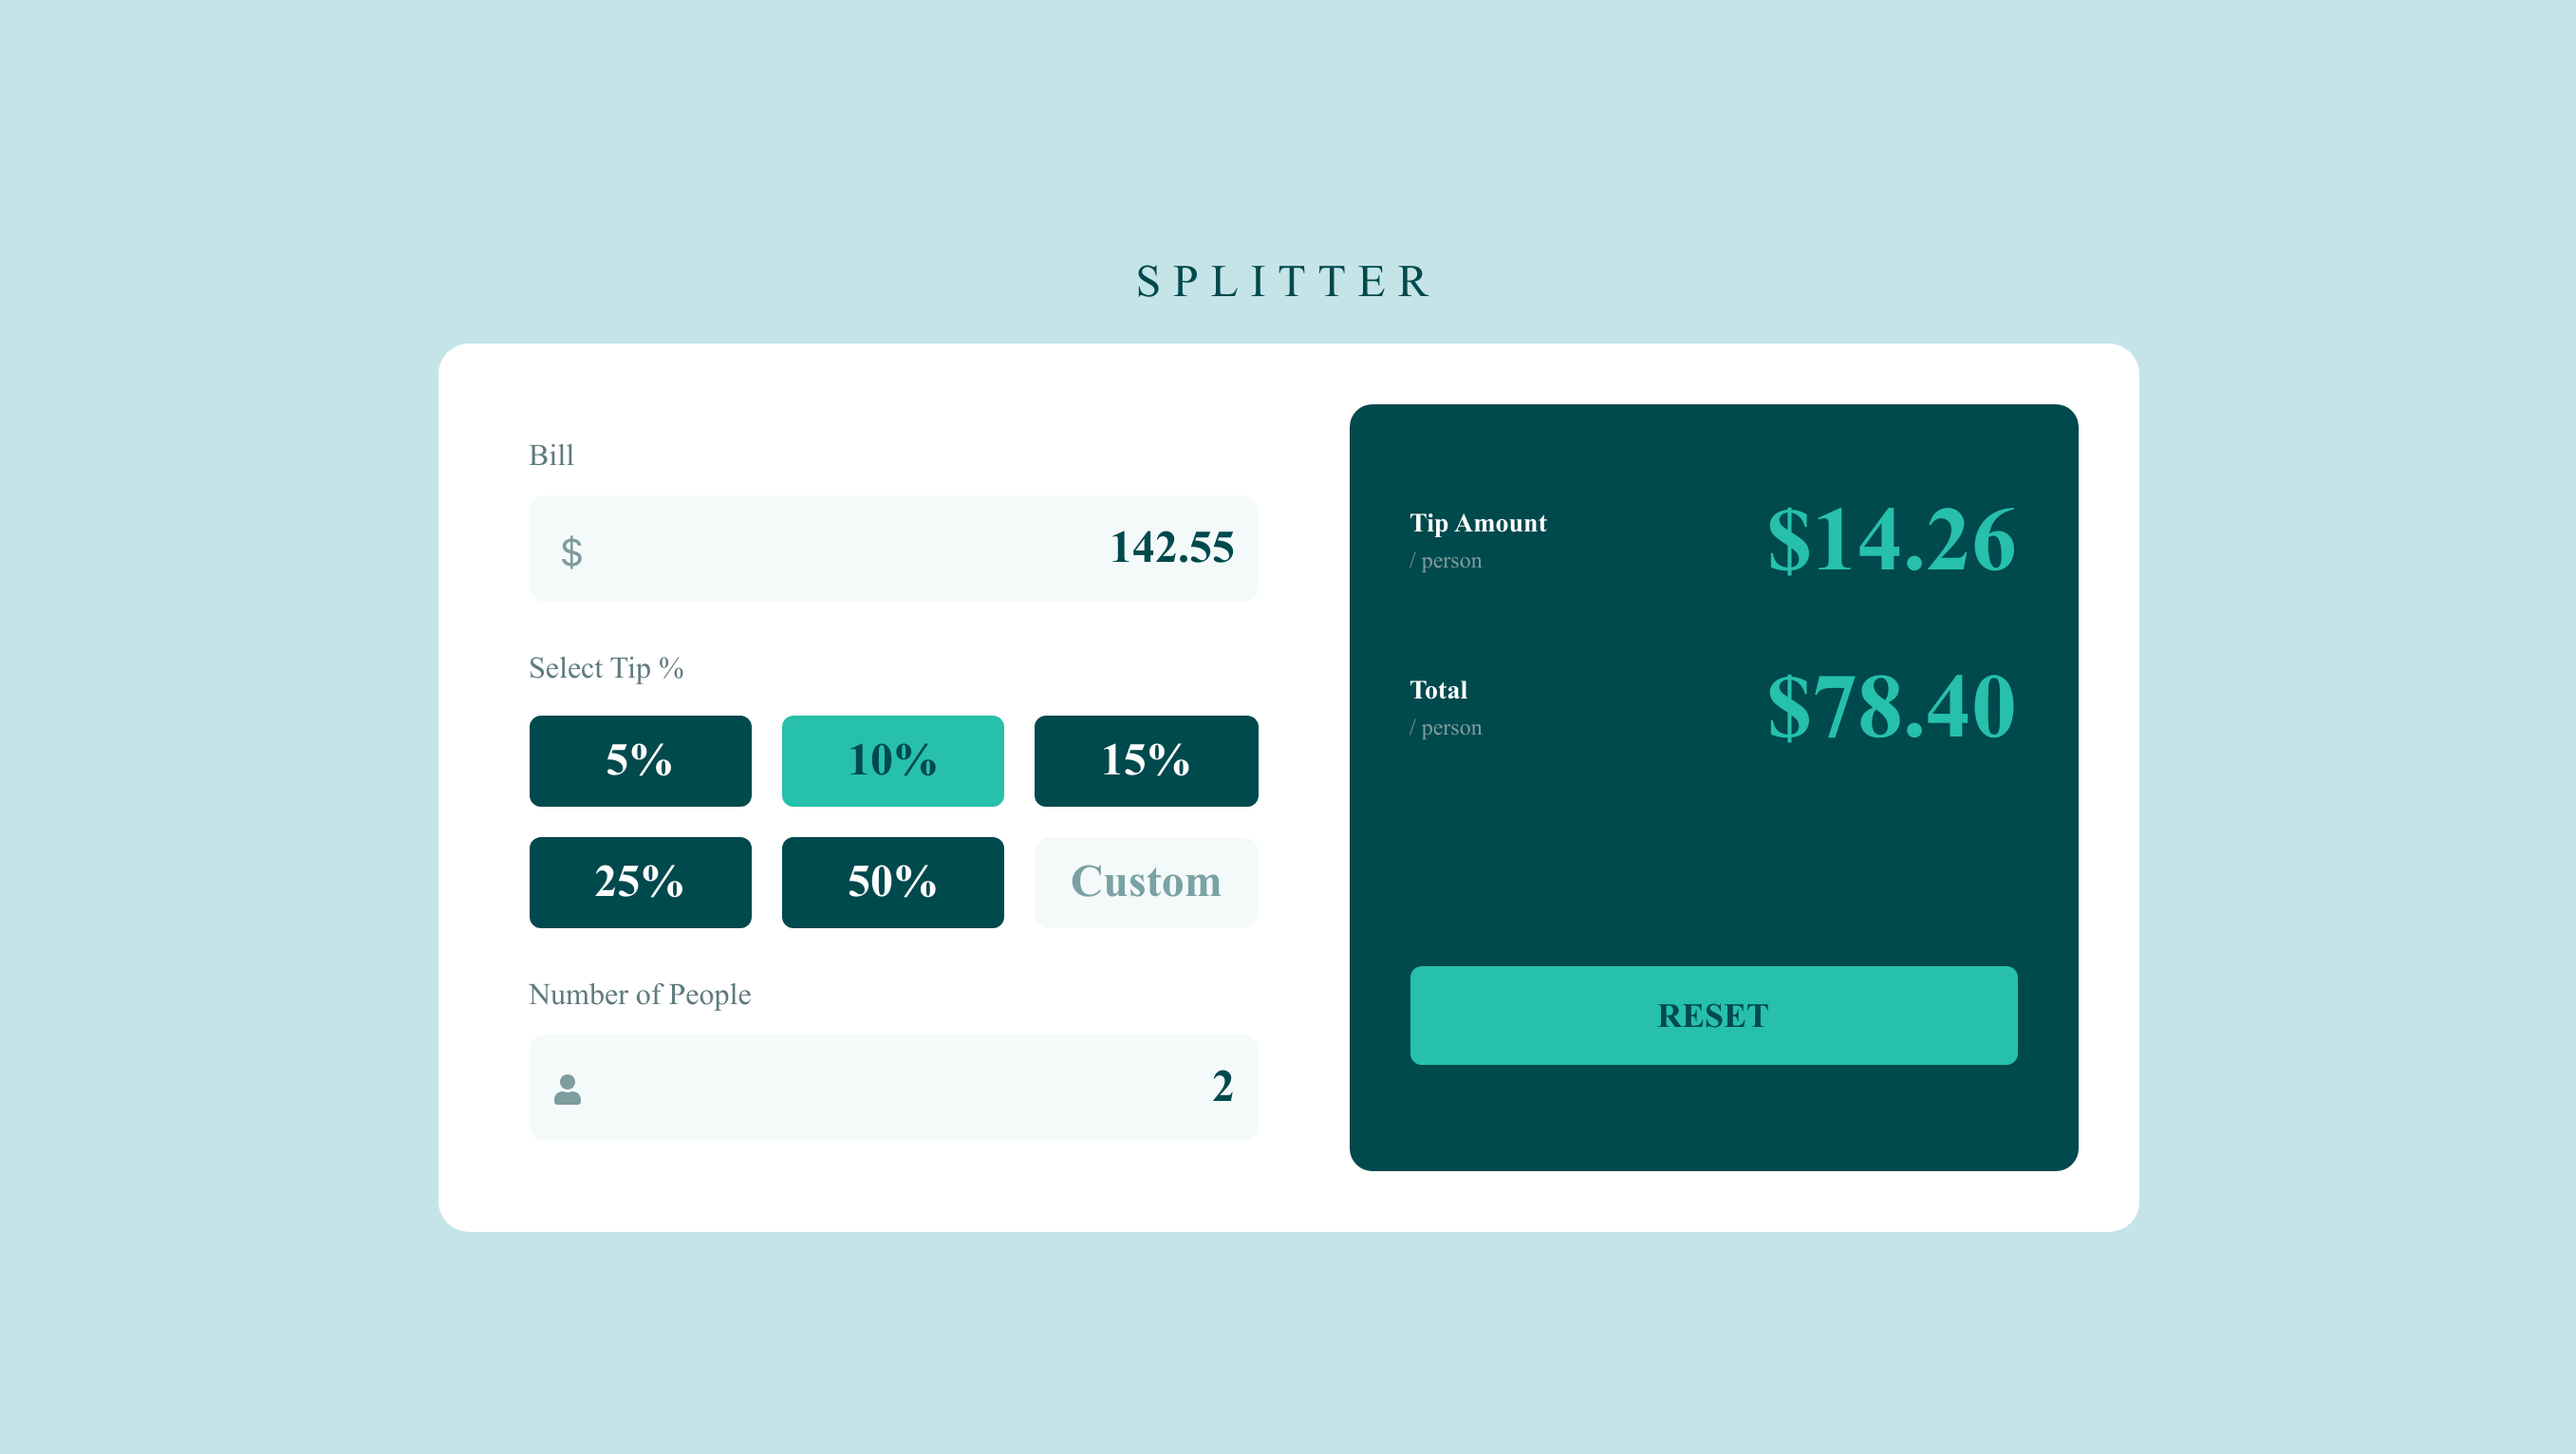
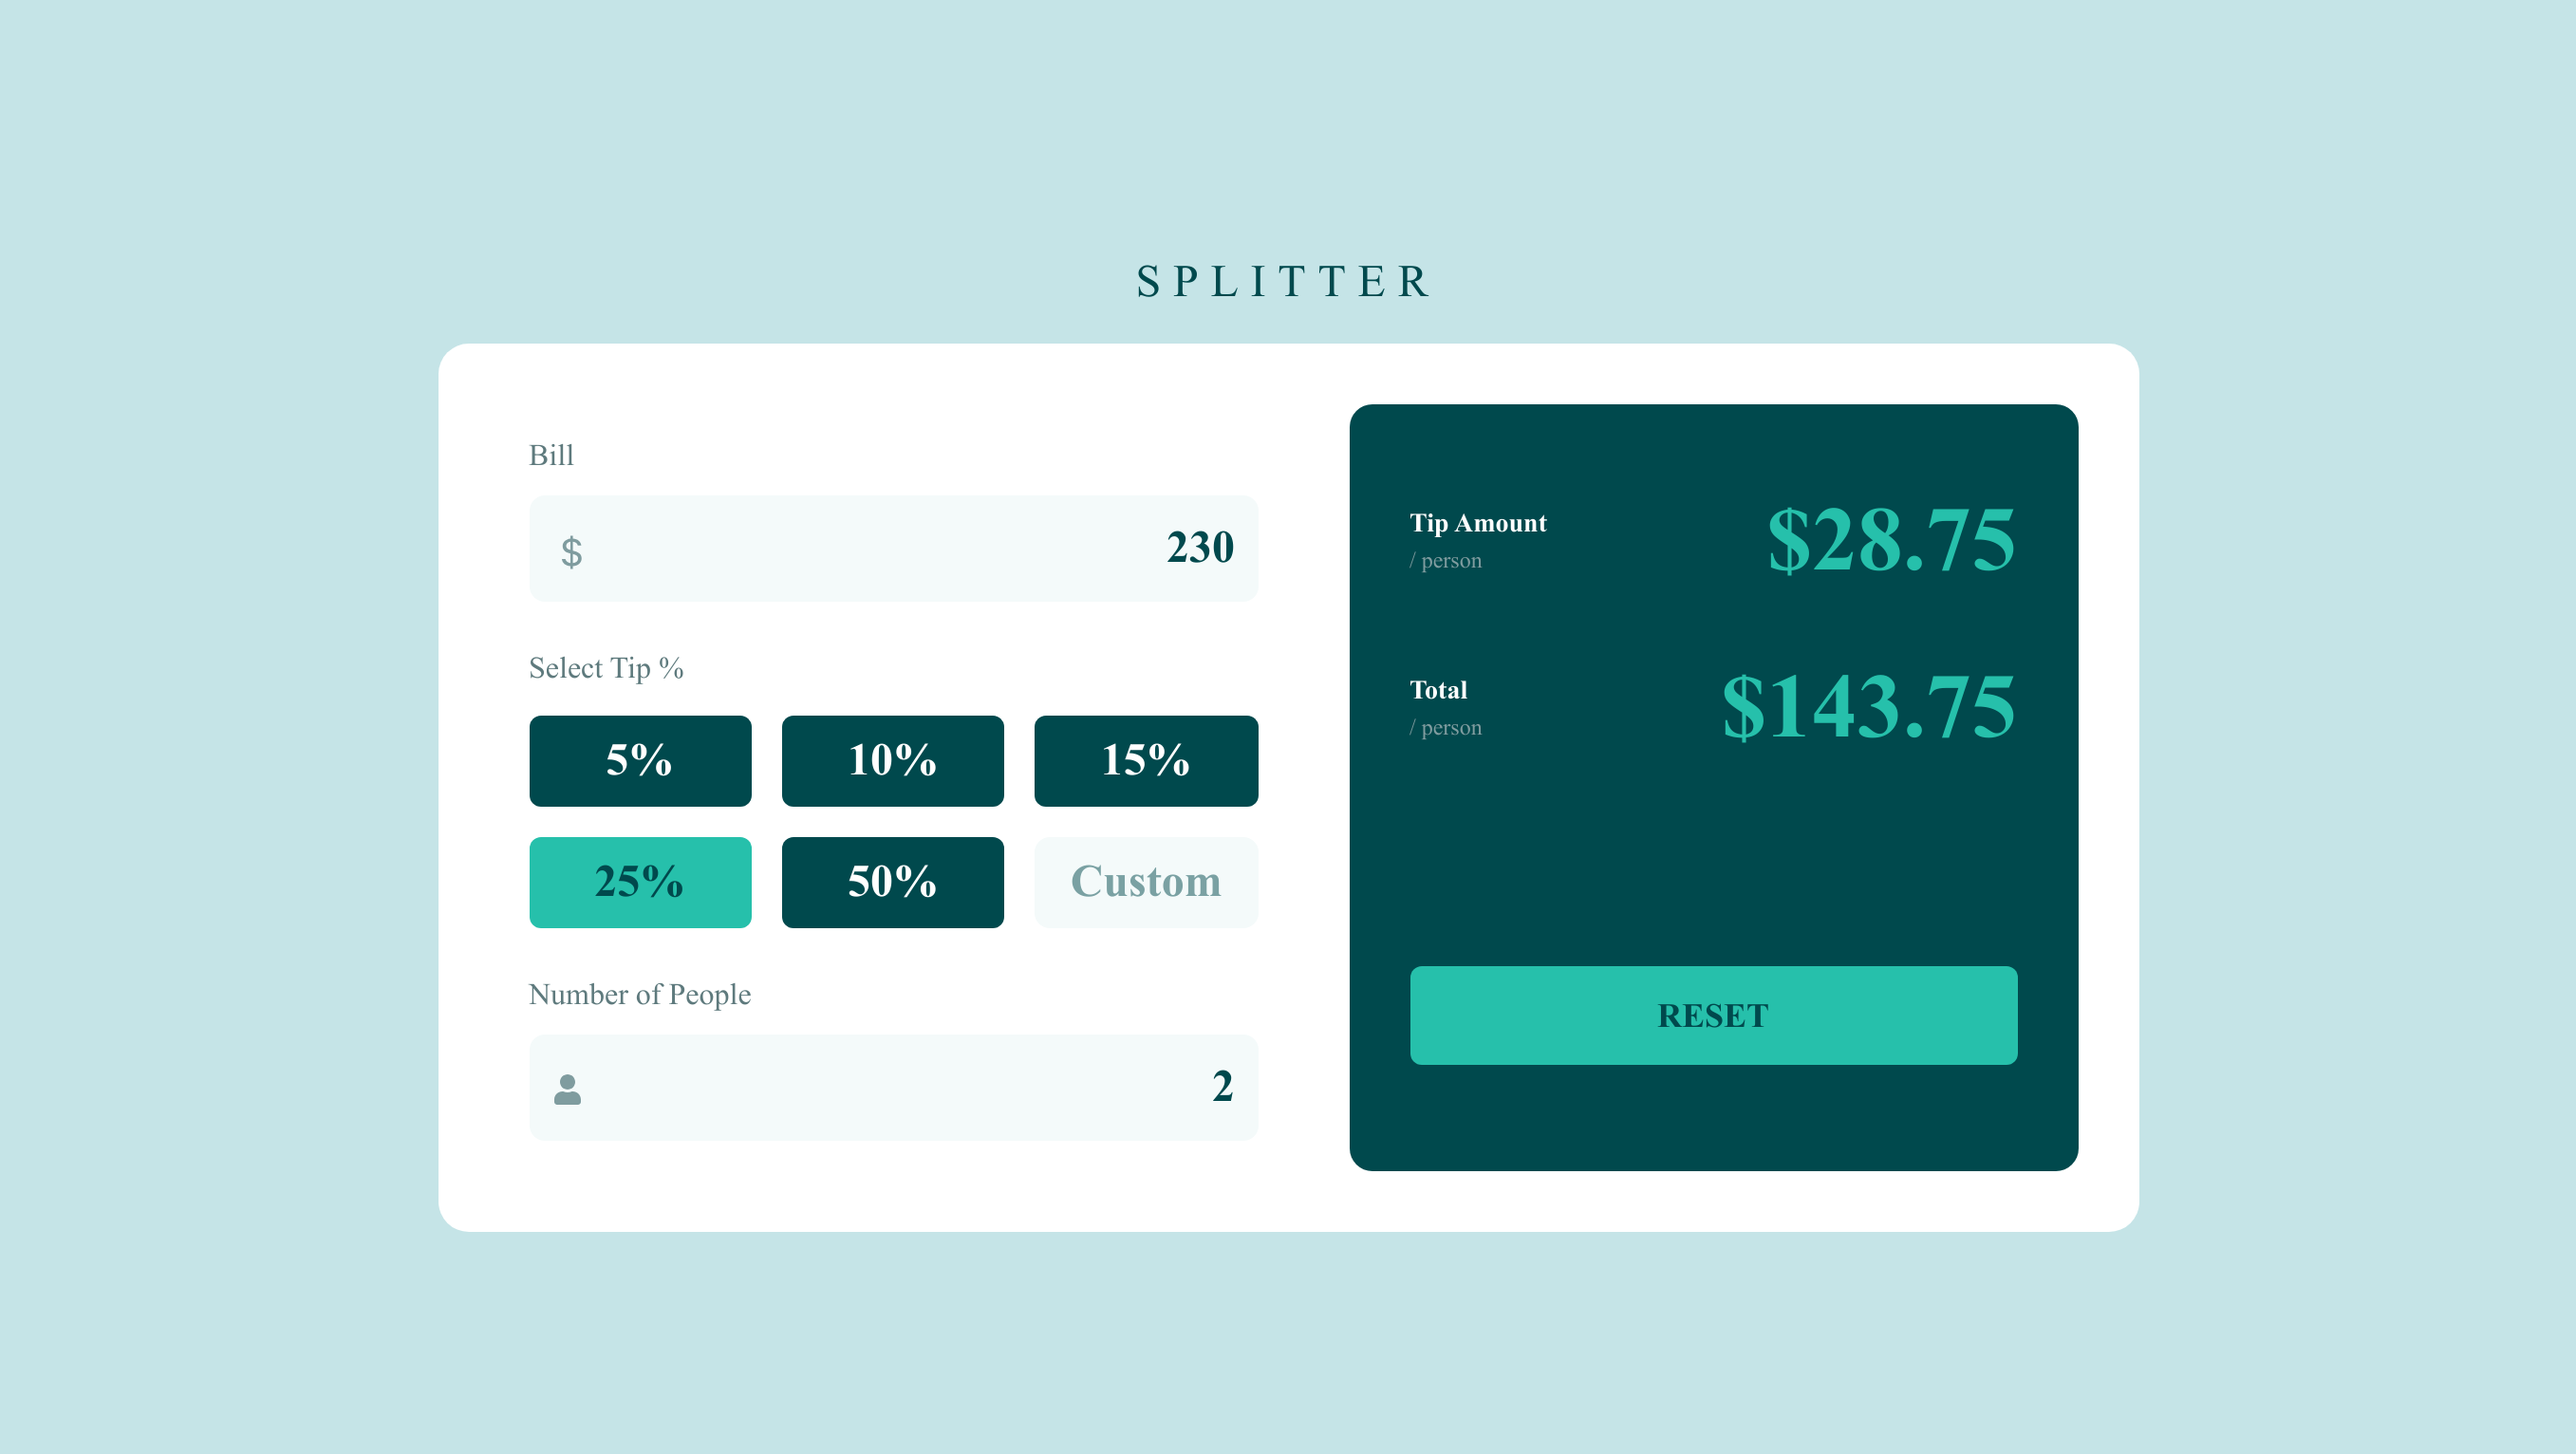
fix buggs

diff --git a/src/components/Containner.jsx b/src/components/Containner.jsx
@@ -5,17 +5,18 @@ const Containner = () => {
   const [bill, setBill] = useState("");
   const [noOfPeople, setNoOfPeople] = useState("");
   const [tipPercentage, setTipPercentage] = useState("");
-  const [tipAmount, setTipAmount] = useState(0);
+  const [tipAmountPerPerson, setTipAmountPerPerson] = useState(0);
   const [amountPerPerson, setAmountPerPerson] = useState(0);
   const [dimmed, setDimmed] = useState(true);
 
   useEffect(() => {
     const calculate = () => {
-      let tipAmount = (tipPercentage / 100) * Number(bill);
+      let tipAmount = ((tipPercentage / 100) * Number(bill));
+      let tipAmountPerPerson = tipAmount /noOfPeople
       let totalAmount = tipAmount + Number(bill);
       let amountPerPerson = totalAmount / noOfPeople;
       if (bill && tipPercentage && noOfPeople) {
-        setTipAmount(tipAmount.toFixed(2));
+        setTipAmountPerPerson(tipAmountPerPerson.toFixed(2));
         setAmountPerPerson(amountPerPerson.toFixed(2));
         setDimmed(false);
       }
@@ -45,7 +46,7 @@ const Containner = () => {
     setBill("");
     setNoOfPeople("");
     setTipPercentage("");
-    setTipAmount(0);
+    setTipAmountPerPerson(0);
     setAmountPerPerson(0);
     setDimmed(true);
   };
@@ -65,7 +66,7 @@ const Containner = () => {
           handleNoOfPeople={handleNoOfPeople}
         />
         <Result
-          tipAmount={tipAmount}
+          tipAmountPerPerson={tipAmountPerPerson}
           amountPerPerson={amountPerPerson}
           dimmed={dimmed}
           handleReset={handleReset}

diff --git a/src/components/Result.jsx b/src/components/Result.jsx
@@ -1,5 +1,5 @@
 
-const Result = ({tipAmount, amountPerPerson, dimmed, handleReset}) => {
+const Result = ({tipAmountPerPerson, amountPerPerson, dimmed, handleReset}) => {
   return (
     <div className="flex h-full px-6 pb-6 sm:p-8">
     <div className="bg-neutral-very-dark-cyan flex-1 rounded-xl p-5 sm:p-8">
@@ -11,7 +11,7 @@ const Result = ({tipAmount, amountPerPerson, dimmed, handleReset}) => {
           <p className="text-neutral-Grayish-cyan text-xs">/ person</p>
         </div>
         <div className="text-primary-strong-cyan text-3xl font-bold sm:text-5xl">
-          ${tipAmount}
+          ${tipAmountPerPerson}
         </div>
       </div>
       <div className="mt-2 flex items-center justify-between pt-4 sm:mt-6">
